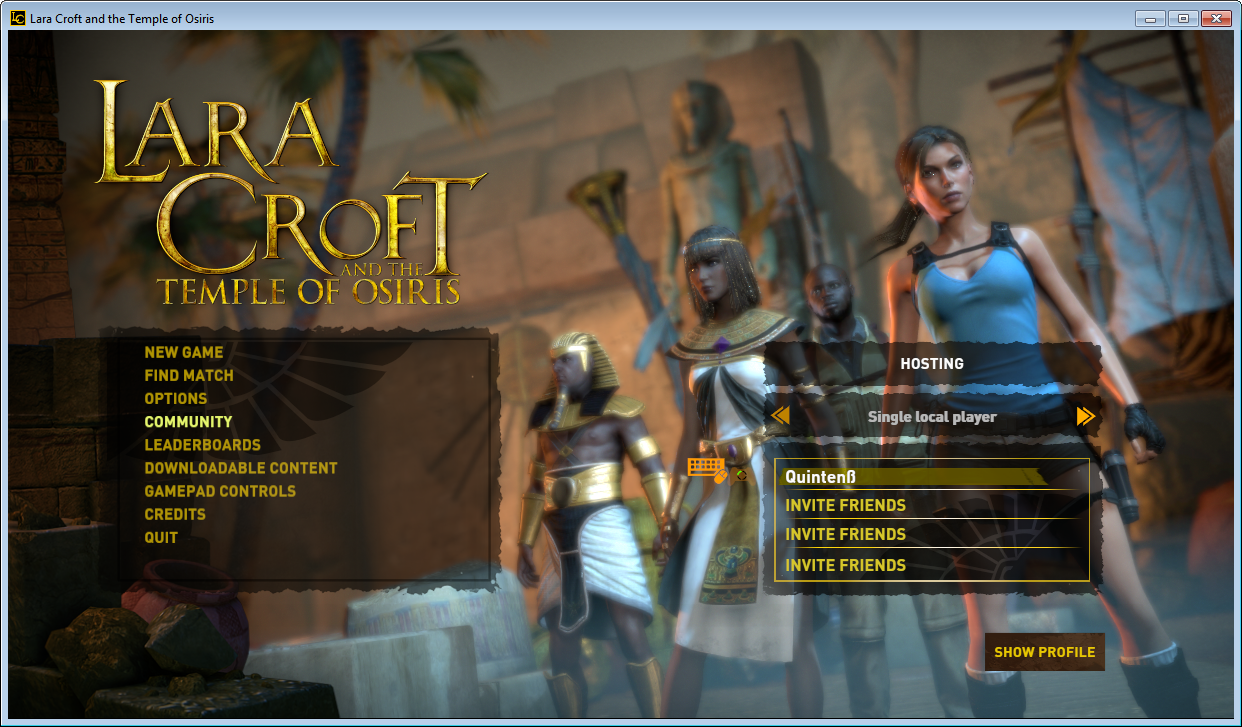
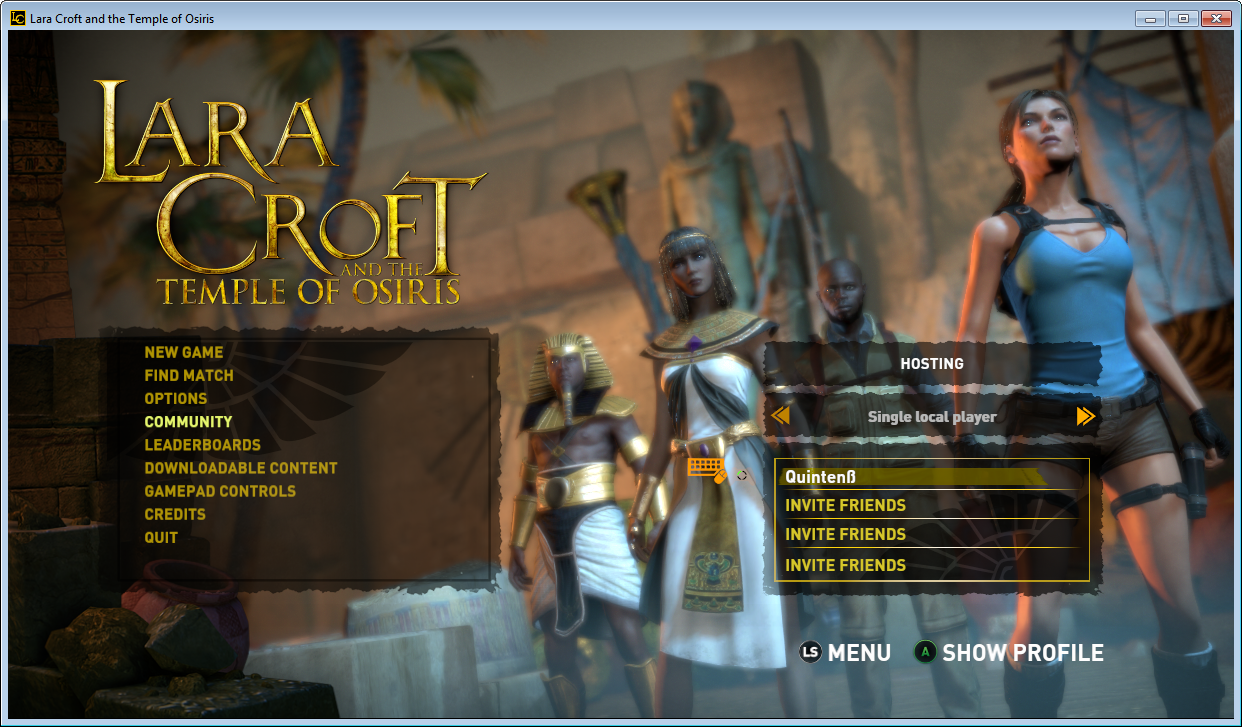
Update LC2 article, based on suggestions.

Changed region(s): [[0.3977, 0.0303, 1.0, 0.9986], [0.3366, 0.8776, 0.3671, 0.9078]]

diff --git a/tasks/projects.js b/tasks/projects.js
@@ -11,7 +11,7 @@ module.exports = function(grunt) {
 			var orientation = properties.orientation || 'left';
 
 			return '<div class="thumbnail-box-' + orientation + ' thumbnail-box-md thumbnail-box-sm">' +
-						'<a href="../media/screenshots/' + href + '" class="thumbnail thumbnail-sm">' +
+						'<a href="../media/screenshots/' + href + '" class="thumbnail thumbnail-sm" target="_blank">' +
 							'<img src="../media/screenshots/thumbnails/' + href + '" alt="' + text + '" />' +
 							'<div class="caption">' +
 								marked(text) +
@@ -79,7 +79,7 @@ module.exports = function(grunt) {
 					var properties = grunt.project_utils.getPlatform(item);
 					if (properties)
 					{
-						context['PAGE_BRIEF_PLATFORMS'] += '<a href="../projects-by-platform.html#' + item + '" class=badge badge-platform badge-"' + item + '">' + properties.name + '</a>\n';
+						context['PAGE_BRIEF_PLATFORMS'] += '<a href="../projects-by-platform.html#' + item + '" class=badge badge-platform badge-' + item + '">' + properties.name + '</a>\n';
 					}
 				});
 			}

diff --git a/source/projects/lc2.md b/source/projects/lc2.md
@@ -1,6 +1,6 @@
 _Lara Croft and the Temple of Osiris_ is a video game title made by [Crystal Dynamics](http://www.crystaldynamics.com) and was released in December 2014 for Xbox One, PlayStation 4 and Steam. It is the sequel to the critically acclaimed _Lara Croft and the Guardian of Light_ title, released in 2010. [_Nixxes_](../projects-by-employer.html#nixxes) was contracted to convert the game to the PlayStation 4 and Steam/Windows platforms. In my role as a systems programmer, I ensured the game was playable with mouse and keyboard, redesigned the user interface for mouse interaction and fixed bugs related to input, UI and the underlying platform.
 
-### Four players on a single PC ###
+### Managed player input methods ###
 
 ![Main menu of the PC version.][1]
 
@@ -19,7 +19,7 @@ Because there were so many options for the player(s) behind the screen, we had t
 
 After first sketching out this widget on paper, I was put in charge of putting it into the game. _Lara Croft and the Temple of Osiris_ uses the [Autodesk Scaleform](../projects-by-technology.html#scaleform) framework to display Flash movies for every UI element on the screen. I created a new Flash movie for the widget and linked it to the game by writing a new widget class in C++.
 
-### Hot-swapping the context bar ###
+### Hot-swappable context bar ###
 
 On many of the screens in _Lara Croft and the Temple of Osiris_, button prompts are displayed when playing with a gamepad. These button prompts indicate to the user what interactions are possible and which buttons they are bound to. When playing with mouse and keyboard, the button prompts are automatically transformed to clickable buttons. This was only possible because I created a new widget, which I called the context bar.
 
@@ -29,7 +29,7 @@ The items on the context bar have a number of properties, including a localizati
 
 Adding the context bar turned out to be such a productivity booster that we reused its implementation for other _Crystal Dynamics_ titles.
 
-### Redesigning the options screens ###
+### Redesigned options screen ###
 
 ![The graphics settings screen in the PC version of _Lara Croft and the Temple of Osiris_.][4]
 
@@ -37,7 +37,7 @@ Although _Lara Croft and the Temple of Osiris_ had a perfectly functional settin
 
 By using and extending existing Scaleform classes for common UI controls like buttons, checkboxes and sliders, I was able to create a settings subscreen that could hold a flexible number of settings. This saved us a lot of time, because options could be moved between subscreens with ease.
 
-### Chatting during the match ###
+### Online text chat ###
 
 ![The text chat widget in action.][5]
 
@@ -45,7 +45,7 @@ Another option unique to the PC version of the game is the ability to type messa
 
 What I ended up designing was a transparent control in the top-right corner, ever present. Its textfield would fill up with messages from other players, while the keyboard and mouse player could press "Enter" and start typing their own message straight away. As soon as the control is activated, its background becomes opaque and an input text field appears at the bottom. This signifies a change in functionality for the control and invites the user to start typing their own message.
 
-### Voice chat widget ###
+### Voice chat on PlayStation 4 ###
 
 ![The voice chat widget can be displayed at any time.][6]
 
